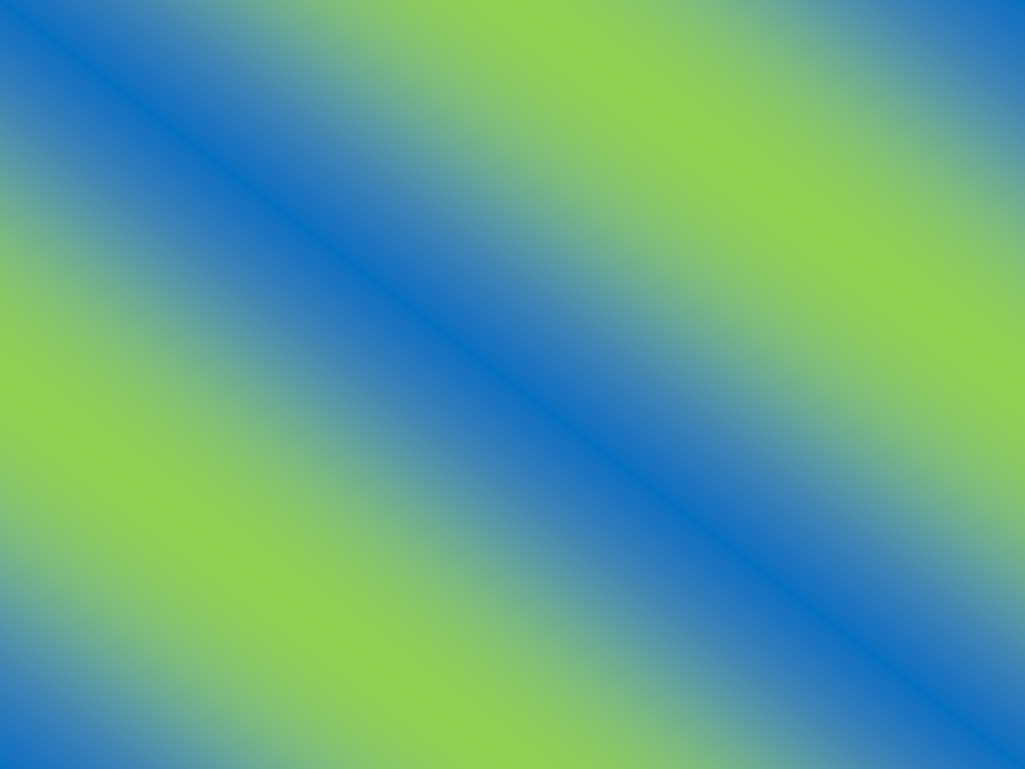
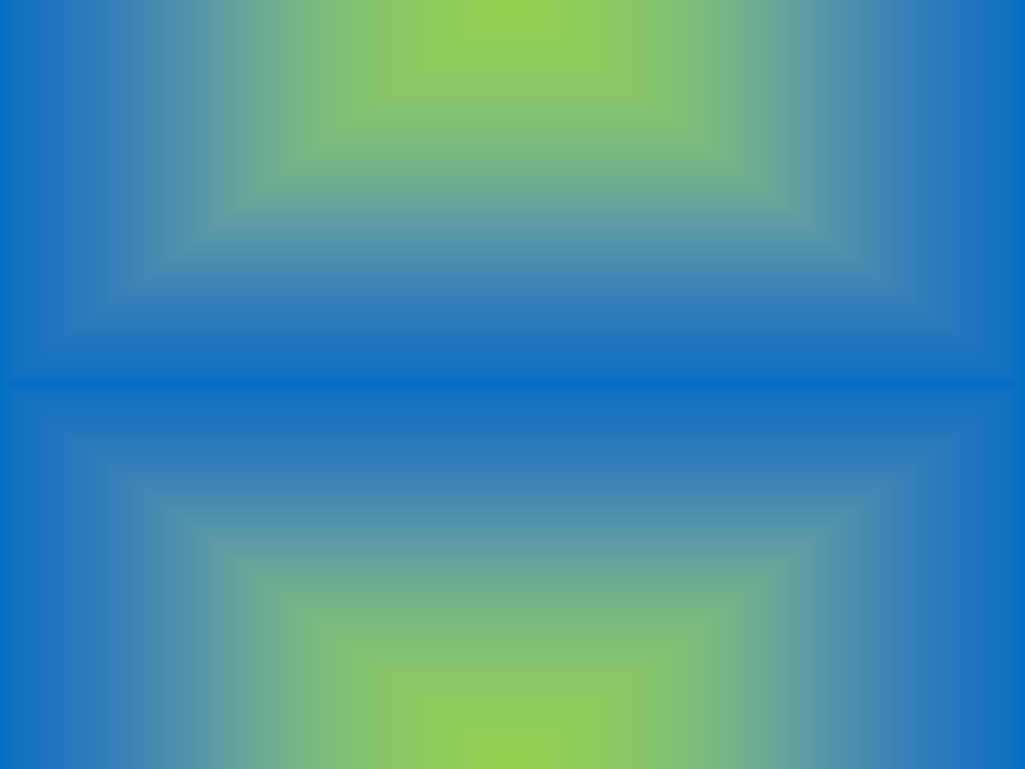
Add files via upload

diff --git a/index.html b/index.html
@@ -22,10 +22,10 @@ w\:* {behavior:url(#default#VML);}
  <o:DocumentProperties>
   <o:Author>Minerva_007</o:Author>
   <o:LastAuthor>Minerva_007</o:LastAuthor>
-  <o:Revision>32</o:Revision>
-  <o:TotalTime>32</o:TotalTime>
+  <o:Revision>34</o:Revision>
+  <o:TotalTime>34</o:TotalTime>
   <o:Created>2022-08-03T19:01:00Z</o:Created>
-  <o:LastSaved>2022-08-03T19:37:00Z</o:LastSaved>
+  <o:LastSaved>2022-08-03T19:52:00Z</o:LastSaved>
   <o:Pages>1</o:Pages>
   <o:Words>212</o:Words>
   <o:Characters>1213</o:Characters>
@@ -529,6 +529,7 @@ span.BalloonTextChar
 	font-size:10.0pt;
 	mso-ansi-font-size:10.0pt;
 	mso-bidi-font-size:10.0pt;
+	font-family:"Calibri","sans-serif";
 	mso-ascii-font-family:Calibri;
 	mso-ascii-theme-font:minor-latin;
 	mso-fareast-font-family:Calibri;
@@ -676,8 +677,10 @@ table.MsoTableGrid
 link=blue vlink=purple style='tab-interval:.5in'>
 <!--[if gte vml 1]><v:background id="_x0000_s1025" o:bwmode="white"
  fillcolor="#92d050" o:targetscreensize="1024,768">
- <v:fill src="index_files/image001.png" color2="#0070c0" angle="-45" focus="-50%"
-  type="gradient"/>
+ <v:fill color2="#0070c0" angle="-45" focusposition="1" focussize="" focus="100%"
+  type="gradientRadial">
+  <o:fill v:ext="view" type="gradientCenter"/>
+ </v:fill>
 </v:background><![endif]-->
 
 <div class=WordSection1>
@@ -779,11 +782,11 @@ style='font-size:18.0pt;mso-bidi-font-size:11.0pt;line-height:115%;font-family:
  style='border-collapse:collapse;border:none;mso-border-alt:solid windowtext .5pt;
  mso-yfti-tbllook:1184;mso-padding-alt:0in 5.4pt 0in 5.4pt'>
  <tr style='mso-yfti-irow:0;mso-yfti-firstrow:yes;height:104.35pt'>
-  <td width=631 rowspan=2 valign=top style='width:473.15pt;border:solid windowtext 1.0pt;
-  mso-border-alt:solid windowtext .5pt;padding:0in 5.4pt 0in 5.4pt;height:104.35pt'>
-  <p class=MsoNormal><span style='font-size:18.0pt;mso-bidi-font-size:11.0pt;
-  line-height:115%;font-family:"Arial","sans-serif";color:#1F497D;mso-themecolor:
-  text2'><o:p>&nbsp;</o:p></span></p>
+  <td width=631 rowspan=2 style='width:473.15pt;border:none;padding:0in 5.4pt 0in 5.4pt;
+  height:104.35pt'>
+  <p class=MsoNormal align=center style='text-align:center'><span
+  style='font-size:18.0pt;mso-bidi-font-size:11.0pt;line-height:115%;
+  font-family:"Arial","sans-serif";color:#1F497D;mso-themecolor:text2'><o:p>&nbsp;</o:p></span></p>
   <p class=MsoNormal align=center style='text-align:center'><span
   style='font-size:18.0pt;mso-bidi-font-size:11.0pt;line-height:115%;
   font-family:"Arial","sans-serif";color:#1F497D;mso-themecolor:text2;
@@ -816,12 +819,11 @@ style='font-size:18.0pt;mso-bidi-font-size:11.0pt;line-height:115%;font-family:
   style='font-size:18.0pt;mso-bidi-font-size:11.0pt;line-height:115%;
   font-family:"Arial","sans-serif";color:#1F497D;mso-themecolor:text2'><o:p></o:p></span></p>
   </td>
-  <td width=631 valign=top style='width:473.15pt;border:solid windowtext 1.0pt;
-  border-left:none;mso-border-left-alt:solid windowtext .5pt;mso-border-alt:
-  solid windowtext .5pt;padding:0in 5.4pt 0in 5.4pt;height:104.35pt'>
-  <p class=MsoNormal style='text-align:justify'><em><span style='font-size:
-  16.0pt;mso-bidi-font-size:11.0pt;line-height:115%;font-family:"Helvetica","sans-serif";
-  color:#333333;font-style:normal;mso-bidi-font-style:italic'>ASHRAE</span></em><em><span
+  <td width=631 style='width:473.15pt;border:none;padding:0in 5.4pt 0in 5.4pt;
+  height:104.35pt'>
+  <p class=MsoNormal><em><span style='font-size:16.0pt;mso-bidi-font-size:11.0pt;
+  line-height:115%;font-family:"Helvetica","sans-serif";color:#333333;
+  font-style:normal;mso-bidi-font-style:italic'>ASHRAE</span></em><em><span
   style='font-size:12.0pt;mso-bidi-font-size:11.0pt;line-height:115%;
   font-family:"Helvetica","sans-serif";color:#333333'>, founded in 1894, is an
   international organization of over 50,000 persons. ASHRAE fulfills its
@@ -833,10 +835,8 @@ style='font-size:18.0pt;mso-bidi-font-size:11.0pt;line-height:115%;font-family:
   </td>
  </tr>
  <tr style='mso-yfti-irow:1;mso-yfti-lastrow:yes;height:126.45pt'>
-  <td width=631 valign=top style='width:473.15pt;border-top:none;border-left:
-  none;border-bottom:solid windowtext 1.0pt;border-right:solid windowtext 1.0pt;
-  mso-border-top-alt:solid windowtext .5pt;mso-border-left-alt:solid windowtext .5pt;
-  mso-border-alt:solid windowtext .5pt;padding:0in 5.4pt 0in 5.4pt;height:126.45pt'>
+  <td width=631 valign=top style='width:473.15pt;border:none;padding:0in 5.4pt 0in 5.4pt;
+  height:126.45pt'>
   <p class=MsoNormal style='text-align:justify'><em><span style='font-size:
   16.0pt;mso-bidi-font-size:10.0pt;line-height:115%;font-family:"Helvetica","sans-serif";
   color:#333333;font-style:normal;mso-bidi-font-style:italic'>University of
